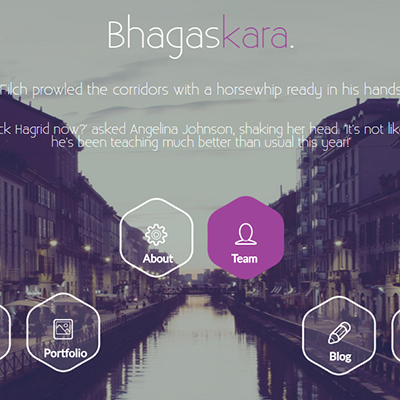
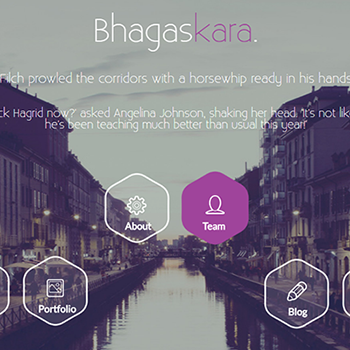
smaller sections look more elegant

diff --git a/css/style.css b/css/style.css
@@ -624,7 +624,7 @@ h3 {
   left: 20%;
   top: 21%;
   width: 12%;
-  background-image: url("../img/samodzielna.png"); }
+  background-image: url("../img/kreatywna.png"); }
 
 .motivated {
   top: 40%;
@@ -939,7 +939,7 @@ h3 {
         margin-bottom: 0px;
         padding-top: 25px; }
       #aboutMe .background .background-wrapper p {
-        font-size: 25px;
+        font-size: 24px;
         width: 550px;
         margin: 0 auto;
         text-align: center;
@@ -1013,8 +1013,8 @@ h3 {
 
 .bar-main-container {
   margin: 10px auto;
-  width: 300px;
-  height: 39px;
+  width: 275px;
+  height: 35px;
   -webkit-border-radius: 9px;
   -moz-border-radius: 9px;
   border-radius: 9px;
@@ -1032,7 +1032,7 @@ h3 {
   -webkit-border-radius: 4px;
   -moz-border-radius: 4px;
   border-radius: 4px;
-  padding: 4px 0px;
+  padding: 2px 0px;
   width: 18%;
   height: 16px;
   color: black;
@@ -1043,7 +1043,7 @@ h3 {
   -webkit-border-radius: 10px;
   -moz-border-radius: 10px;
   border-radius: 10px;
-  height: 10px;
+  height: 7px;
   background: rgba(0, 0, 0, 0.13);
   width: 78%;
   margin: 7px 0px;
@@ -1165,8 +1165,8 @@ h3 {
     position: relative;
     justify-content: space-around; }
     #myWorks .work-wrapper .size {
-      width: 400px;
-      height: 400px;
+      width: 350px;
+      height: 350px;
       border-radius: 50%;
       margin: 40px 0;
       position: relative;
@@ -1174,9 +1174,9 @@ h3 {
       cursor: default; }
       #myWorks .work-wrapper .size .info-wrap {
         position: absolute;
-        margin: 35px;
-        width: 290px;
-        height: 290px;
+        margin: 20px;
+        width: 270px;
+        height: 270px;
         border-radius: 50%;
         perspective: 800px;
         transition: all 0.4s ease-in-out;
@@ -1187,8 +1187,8 @@ h3 {
         box-shadow: 0 0 0 55px rgba(255, 255, 255, 0.2), inset 0 0 3px rgba(115, 114, 23, 0.8); }
         #myWorks .work-wrapper .size .info-wrap .info {
           position: absolute;
-          width: 290px;
-          height: 290px;
+          width: 270px;
+          height: 270px;
           border-radius: 50%;
           transition: all 0.4s ease-in-out;
           transform-style: preserve-3d; }
@@ -1231,7 +1231,7 @@ h3 {
               margin-top: 85px;
               text-align: center;
               width: 200px;
-              font-size: 18px;
+              font-size: 17px;
               border-top: 1px solid; }
               #myWorks .work-wrapper .size .info-wrap .info .info-back p a {
                 display: block;
@@ -1258,15 +1258,15 @@ h3 {
     #myWorks .work-wrapper .size:hover .info {
       transform: rotate3d(0, 1, 0, -180deg); }
     #myWorks .work-wrapper .oldPortfolio {
-      background: url("../img/oldportfolioo.jpg"); }
+      background: url("../img/oldportfolio.jpg"); }
     #myWorks .work-wrapper .bicycle {
-      background: url("../img/bike1.jpg"); }
+      background: url("../img/bike.jpg"); }
     #myWorks .work-wrapper .bhagaskara {
       background: url("../img/bhagaskara.png"); }
     #myWorks .work-wrapper .shoppingList {
       background: url("../img/shoppinglist.jpg"); }
     #myWorks .work-wrapper .email {
-      background: url("../img/email1.jpg"); }
+      background: url("../img/email.jpg"); }
     #myWorks .work-wrapper .sitOnChair {
       background: url("../img/sitOnChair.jpg"); }
 

diff --git a/scss/style.scss b/scss/style.scss
@@ -83,7 +83,7 @@ h3 {
   left: 20%;
   top: 21%;
   width: 12%;
-  background-image: url("../img/samodzielna.png");
+  background-image: url("../img/kreatywna.png");
 }
 
 .motivated {
@@ -432,7 +432,7 @@ h3 {
         padding-top: 25px;
       }
       & p {
-        font-size: 25px;
+        font-size: 24px;
         width: 550px;
         margin: 0 auto;
         text-align: center;
@@ -520,8 +520,8 @@ h3 {
 
 .bar-main-container {
   margin: 10px auto;
-  width: 300px;
-  height: 39px;
+  width: 275px;
+  height: 35px;
   -webkit-border-radius: 9px;
   -moz-border-radius: 9px;
   border-radius: 9px;
@@ -541,7 +541,7 @@ h3 {
   -webkit-border-radius: 4px;
   -moz-border-radius: 4px;
   border-radius: 4px;
-  padding: 4px 0px;
+  padding: 2px 0px;
   width: 18%;
   height: 16px;
   color: black;
@@ -553,7 +553,7 @@ h3 {
   -webkit-border-radius: 10px;
   -moz-border-radius: 10px;
   border-radius: 10px;
-  height: 10px;
+  height: 7px;
   background: rgba(0, 0, 0, 0.13);
   width: 78%;
   margin: 7px 0px;
@@ -702,8 +702,8 @@ h3 {
     position: relative;
     justify-content: space-around;
     & .size {
-      width: 400px;
-      height: 400px;
+      width: 350px;
+      height: 350px;
       //background-position:center;
       //background-size: cover;
       border-radius: 50%;
@@ -713,9 +713,9 @@ h3 {
       cursor: default;
       & .info-wrap {
         position: absolute;
-        margin:35px;
-        width: 290px;
-        height: 290px;
+        margin:20px;
+        width: 270px;
+        height: 270px;
         border-radius: 50%;
         perspective: 800px;
         transition: all 0.4s ease-in-out;
@@ -726,8 +726,8 @@ h3 {
         box-shadow: 0 0 0 55px rgba(255, 255, 255, 0.2), inset 0 0 3px rgba(115, 114, 23, 0.8);
         & .info {
           position: absolute;
-          width: 290px;
-          height: 290px;
+          width: 270px;
+          height: 270px;
           border-radius: 50%;
           transition: all 0.4s ease-in-out;
           transform-style: preserve-3d;
@@ -780,7 +780,7 @@ h3 {
             margin-top: 85px;
             text-align:center;
             width: 200px;
-            font-size: 18px;
+            font-size: 17px;
             border-top: 1px solid;
             & a {
               display: block;
@@ -817,10 +817,10 @@ h3 {
       transform: rotate3d(0, 1, 0, -180deg);
     }
     & .oldPortfolio {
-      background: url("../img/oldportfolioo.jpg");
+      background: url("../img/oldportfolio.jpg");
     }
     & .bicycle {
-      background: url("../img/bike1.jpg");
+      background: url("../img/bike.jpg");
     }
     & .bhagaskara {
       background: url("../img/bhagaskara.png");
@@ -829,7 +829,7 @@ h3 {
       background: url("../img/shoppinglist.jpg");
     }
     & .email {
-      background: url("../img/email1.jpg");
+      background: url("../img/email.jpg");
     }
     & .sitOnChair {
       background: url("../img/sitOnChair.jpg");
